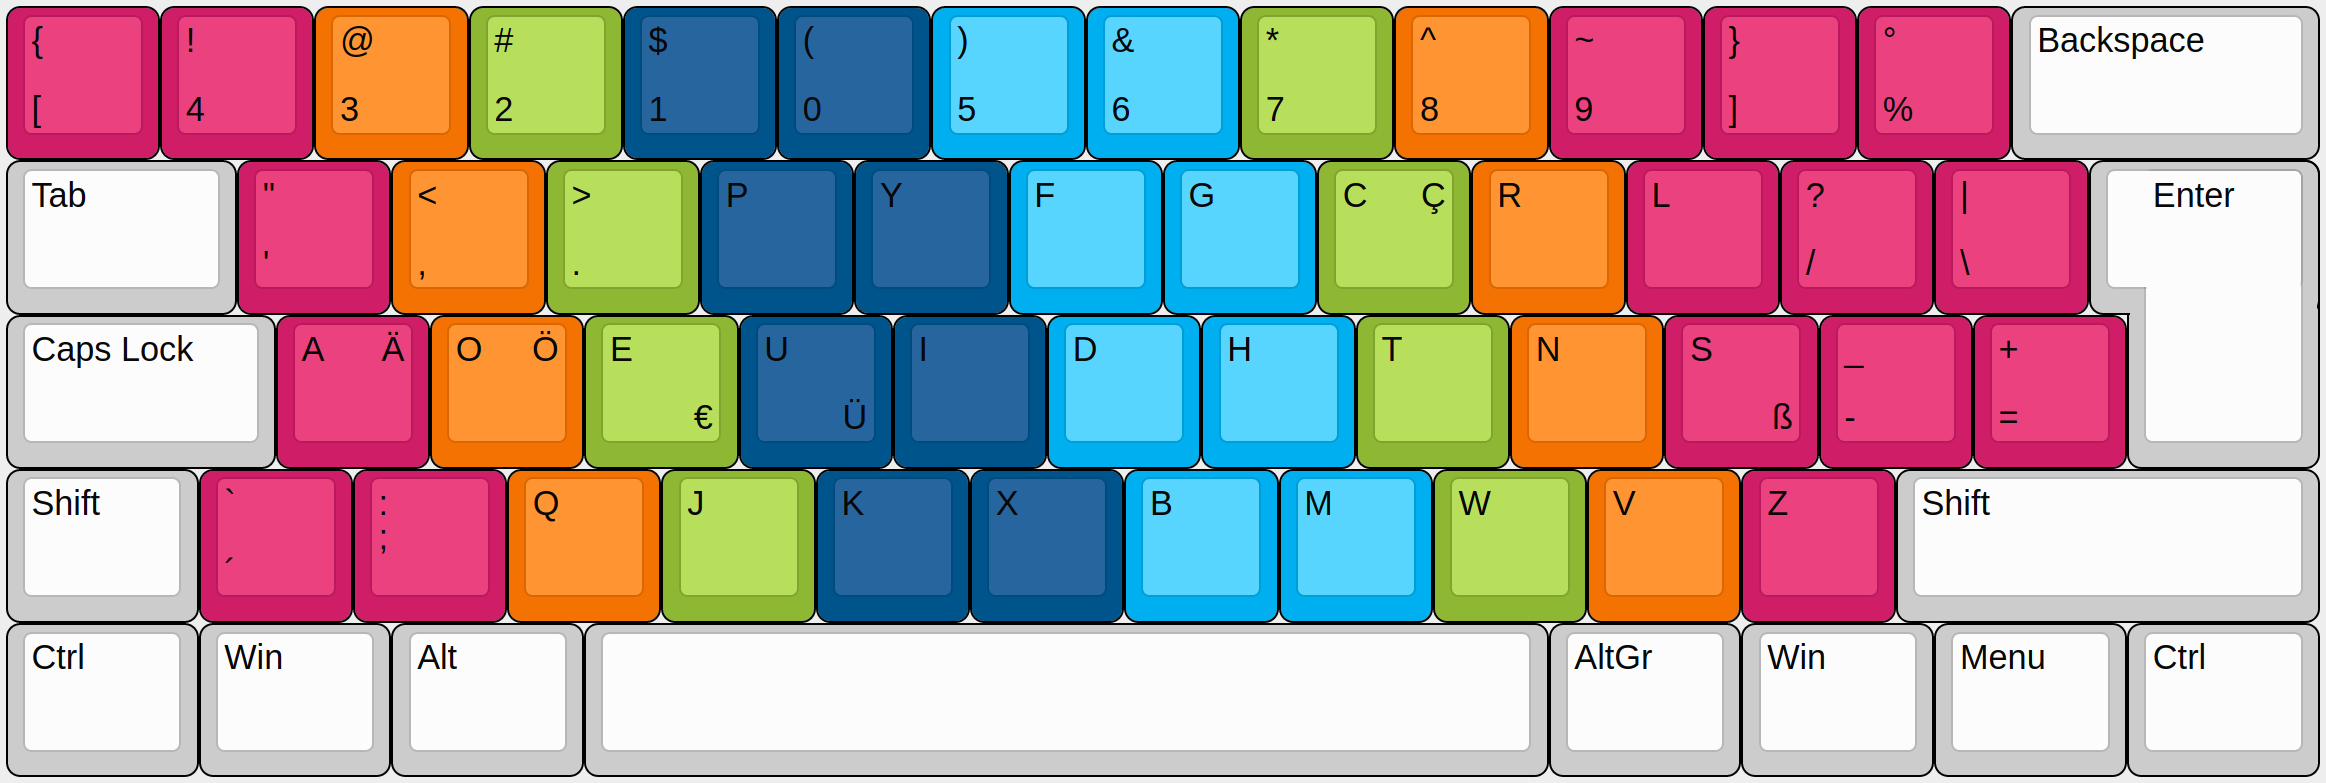
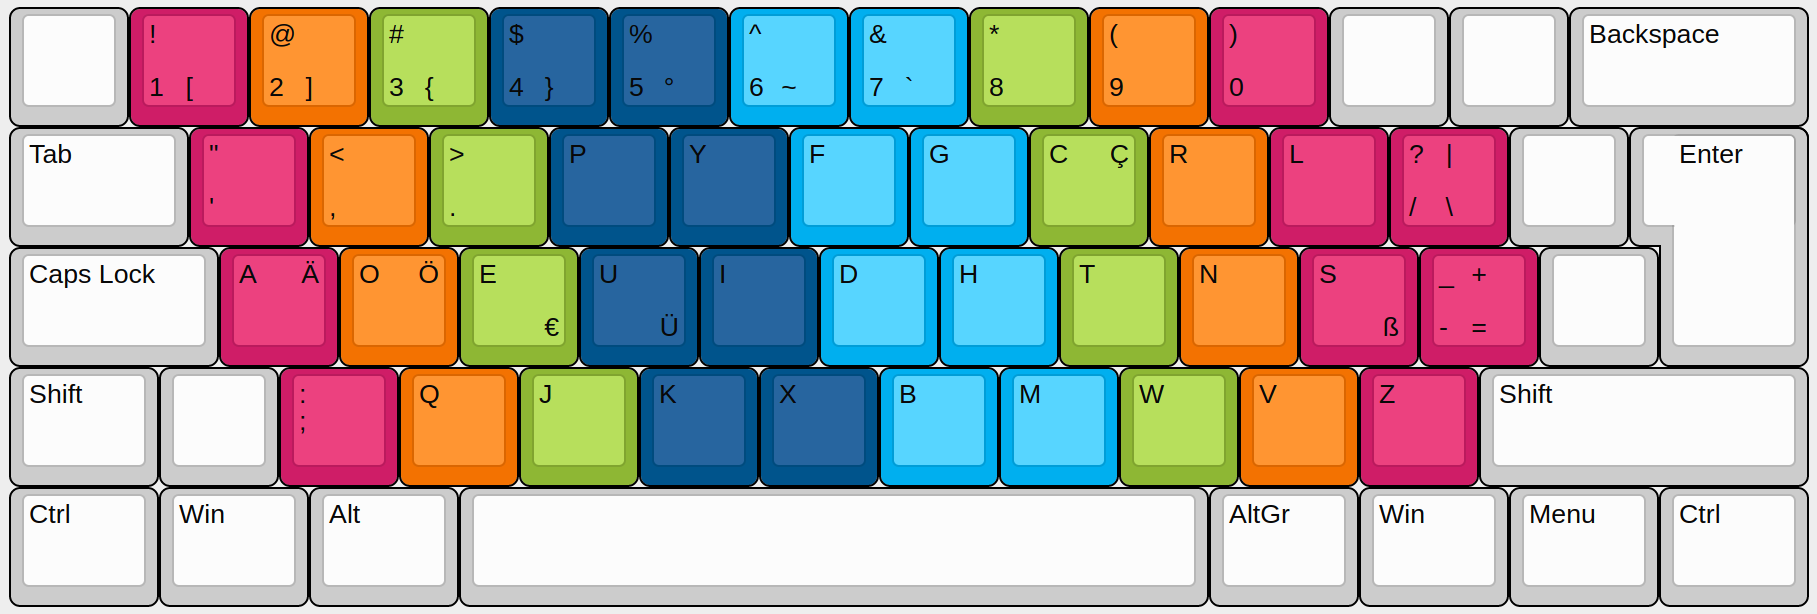
Simplify layout

diff --git a/README.md b/README.md
@@ -1,10 +1,10 @@
-# Dvorax
+# Dvöraque
 
-Custom keyboard layout based on Dvorak, with German and French character support
+Dvorak keyboard layout with German and French character support
 
 ![Layout](https://github.com/xdlg/Dvorax/blob/master/layout.png)
 
-[Keyboard Layout Editor](http://www.keyboard-layout-editor.com/##@@_c=%23cf1d67%3B&=%7B%0A%5B&=!%0A4&_c=%23f37201%3B&=%2F@%0A3&_c=%238eb734%3B&=%23%0A2&_c=%2300548c%3B&=$%0A1&=(%0A0&_c=%2300afef%3B&=)%0A5&=%2F&%0A6&_c=%238eb734%3B&=*%0A7&_c=%23f37201%3B&=%5E%0A8&_c=%23cf1d67%3B&=~%0A9&=%7D%0A%5D&=%C2%B0%0A%25&_c=%23cccccc&w:2%3B&=Backspace%3B&@_w:1.5%3B&=Tab&_c=%23cf1d67%3B&=%22%0A'&_c=%23f37201%3B&=%3C%0A,&_c=%238eb734%3B&=%3E%0A.&_c=%2300548c%3B&=P&=Y&_c=%2300afef%3B&=F&=G&_c=%238eb734%3B&=C%0A%0A%C3%87&_c=%23f37201%3B&=R&_c=%23cf1d67%3B&=L&=%3F%0A%2F%2F&=%7C%0A%5C&_x:0.25&c=%23cccccc&w:1.25&h:2&w2:1.5&h2:1&x2:-0.25%3B&=Enter%3B&@_w:1.75%3B&=Caps%20Lock&_c=%23cf1d67%3B&=A%0A%0A%C3%84&_c=%23f37201%3B&=O%0A%0A%C3%96&_c=%238eb734%3B&=E%0A%0A%0A%E2%82%AC&_c=%2300548c%3B&=U%0A%0A%0A%C3%9C&=I&_c=%2300afef%3B&=D&=H&_c=%238eb734%3B&=T&_c=%23f37201%3B&=N&_c=%23cf1d67%3B&=S%0A%0A%0A%C3%9F&=%2F_%0A-&=+%0A%2F=%3B&@_c=%23cccccc&w:1.25%3B&=Shift&_c=%23cf1d67%3B&=%60%0A%C2%B4&=%2F:%0A%0A%0A%0A%0A%0A%2F%3B&_c=%23f37201%3B&=Q&_c=%238eb734%3B&=J&_c=%2300548c%3B&=K&=X&_c=%2300afef%3B&=B&=M&_c=%238eb734%3B&=W&_c=%23f37201%3B&=V&_c=%23cf1d67%3B&=Z&_c=%23cccccc&w:2.75%3B&=Shift%3B&@_w:1.25%3B&=Ctrl&_w:1.25%3B&=Win&_w:1.25%3B&=Alt&_a:7&w:6.25%3B&=&_a:4&w:1.25%3B&=AltGr&_w:1.25%3B&=Win&_w:1.25%3B&=Menu&_w:1.25%3B&=Ctrl)
+[Keyboard Layout Editor](http://www.keyboard-layout-editor.com/##@@_a:7%3B&=&_c=%23cf1d67&a:4%3B&=!%0A1%0A%0A%0A%0A%0A%0A%0A%0A%0A%5B&_c=%23f37201%3B&=%2F@%0A2%0A%0A%0A%0A%0A%0A%0A%0A%0A%5D&_c=%238eb734%3B&=%23%0A3%0A%0A%0A%0A%0A%0A%0A%0A%0A%7B&_c=%2300548c%3B&=$%0A4%0A%0A%0A%0A%0A%0A%0A%0A%0A%7D&=%25%0A5%0A%0A%0A%0A%0A%0A%0A%0A%0A%C2%B0&_c=%2300afef%3B&=%5E%0A6%0A%0A%0A%0A%0A%0A%0A%0A%0A~&=%2F&%0A7%0A%0A%0A%0A%0A%0A%0A%0A%0A%60&_c=%238eb734%3B&=*%0A8&_c=%23f37201%3B&=(%0A9&_c=%23cf1d67%3B&=)%0A0&_c=%23cccccc&a:7%3B&=&=&_a:4&w:2%3B&=Backspace%3B&@_w:1.5%3B&=Tab&_c=%23cf1d67%3B&=%22%0A'&_c=%23f37201%3B&=%3C%0A,&_c=%238eb734%3B&=%3E%0A.&_c=%2300548c%3B&=P&=Y&_c=%2300afef%3B&=F&=G&_c=%238eb734%3B&=C%0A%0A%C3%87&_c=%23f37201%3B&=R&_c=%23cf1d67%3B&=L&=%3F%0A%2F%2F%0A%0A%0A%0A%0A%0A%0A%7C%0A%0A%5C&_c=%23cccccc&a:7%3B&=&_x:0.25&a:4&w:1.25&h:2&w2:1.5&h2:1&x2:-0.25%3B&=Enter%3B&@_w:1.75%3B&=Caps%20Lock&_c=%23cf1d67%3B&=A%0A%0A%C3%84&_c=%23f37201%3B&=O%0A%0A%C3%96&_c=%238eb734%3B&=E%0A%0A%0A%E2%82%AC&_c=%2300548c%3B&=U%0A%0A%0A%C3%9C&=I&_c=%2300afef%3B&=D&=H&_c=%238eb734%3B&=T&_c=%23f37201%3B&=N&_c=%23cf1d67%3B&=S%0A%0A%0A%C3%9F&=%2F_%0A-%0A%0A%0A%0A%0A%0A%0A+%0A%0A%2F=&_c=%23cccccc&a:7%3B&=%3B&@_a:4&w:1.25%3B&=Shift&_a:7%3B&=&_c=%23cf1d67&a:4%3B&=%2F:%0A%0A%0A%0A%0A%0A%2F%3B&_c=%23f37201%3B&=Q&_c=%238eb734%3B&=J&_c=%2300548c%3B&=K&=X&_c=%2300afef%3B&=B&=M&_c=%238eb734%3B&=W&_c=%23f37201%3B&=V&_c=%23cf1d67%3B&=Z&_c=%23cccccc&w:2.75%3B&=Shift%3B&@_w:1.25%3B&=Ctrl&_w:1.25%3B&=Win&_w:1.25%3B&=Alt&_a:7&w:6.25%3B&=&_a:4&w:1.25%3B&=AltGr&_w:1.25%3B&=Win&_w:1.25%3B&=Menu&_w:1.25%3B&=Ctrl)
 
 ## Linux
 
